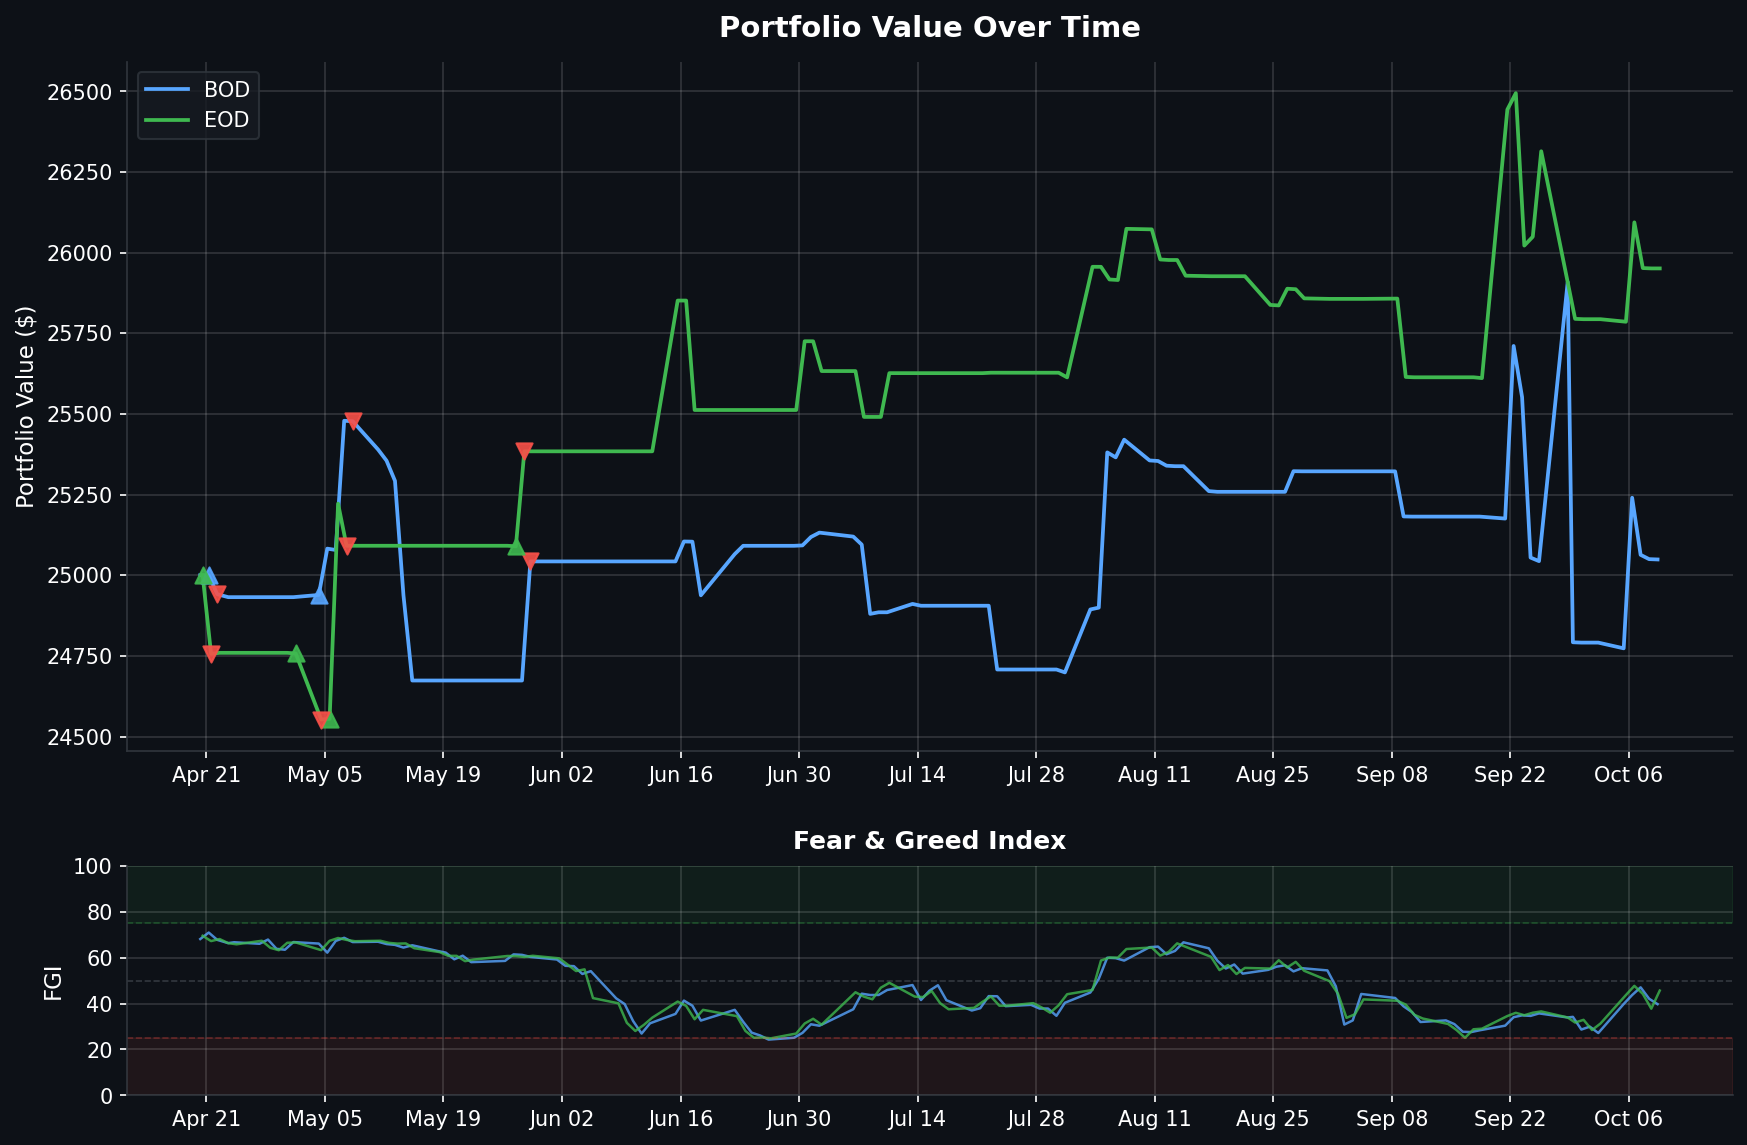
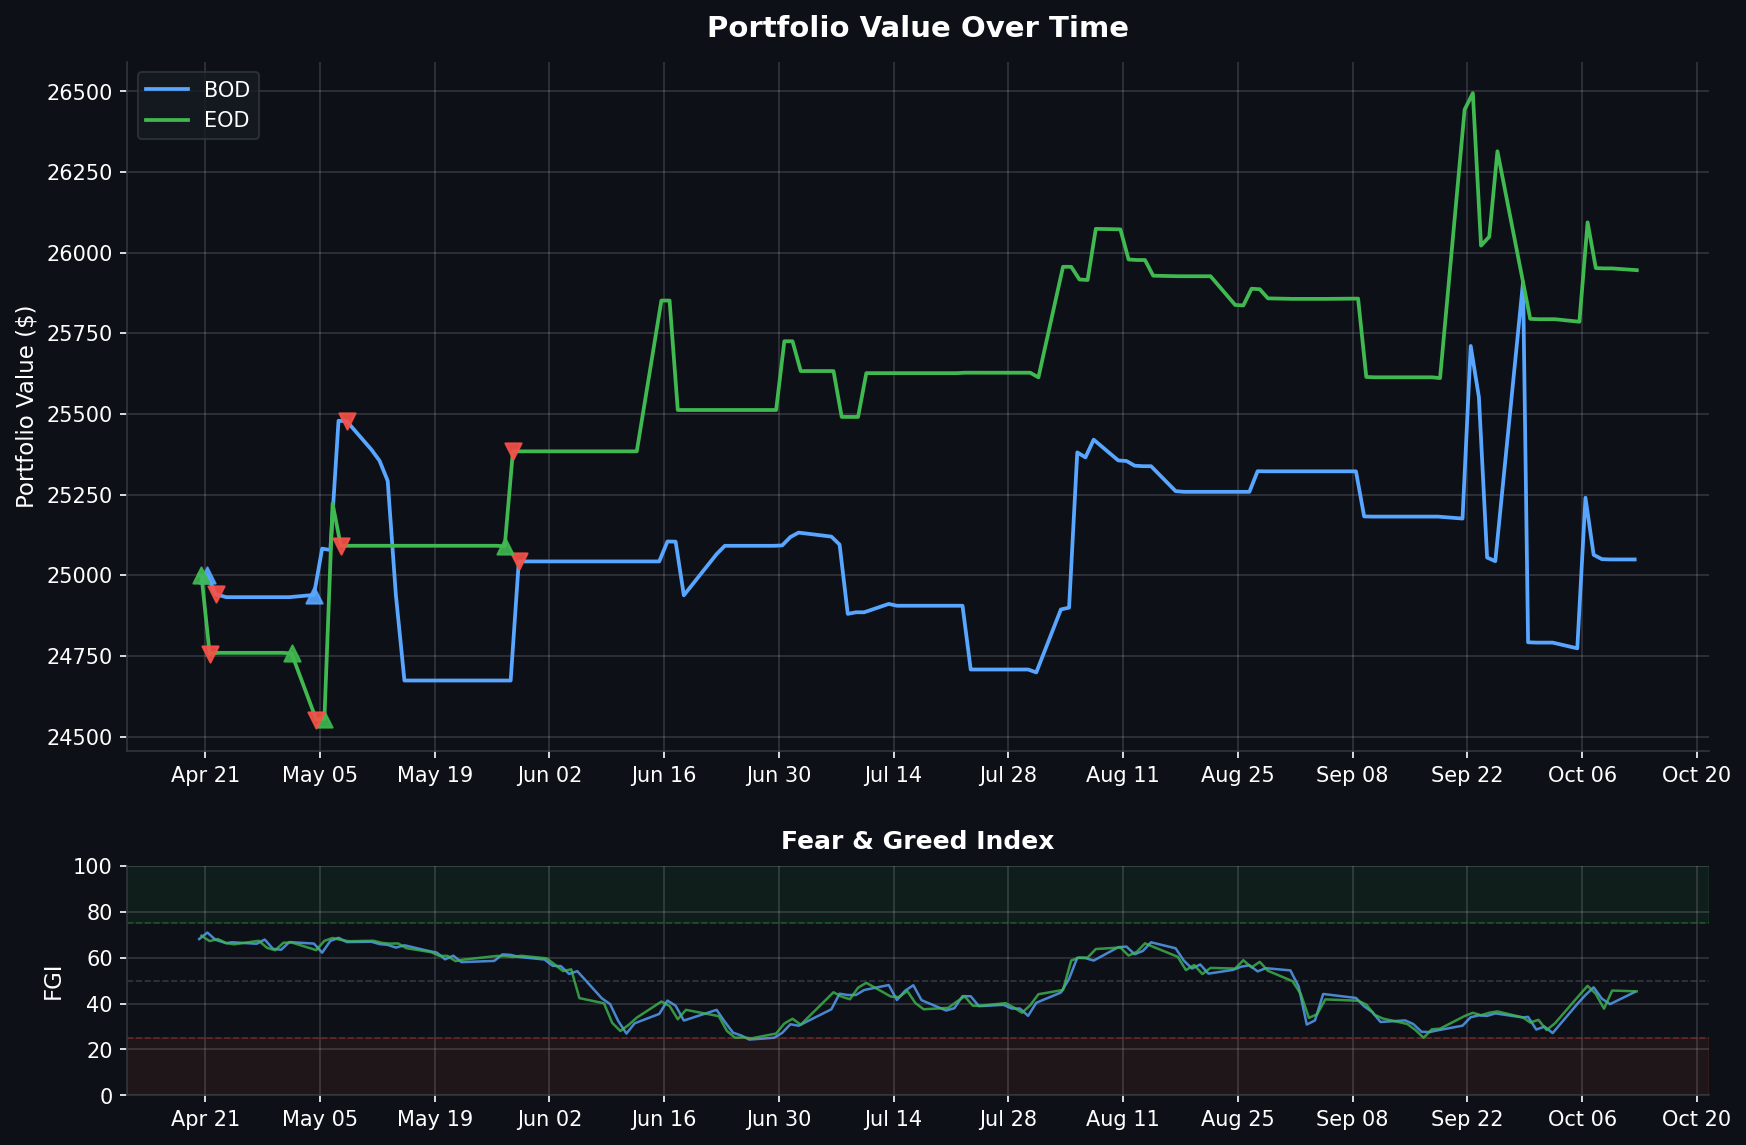
Daily data backup 2026-10-12

diff --git a/README.md b/README.md
@@ -1,6 +1,6 @@
 # Fear & Greed Index Trading Bot
 
-> Dashboard auto-updated daily at market close | Last update: **2026-10-09 13:30 PST**
+> Dashboard auto-updated daily at market close | Last update: **2026-10-12 13:30 PST**
 
 ![Portfolio Performance](assets/portfolio_chart.png)
 
@@ -12,12 +12,12 @@
 |--------|-------|
 | Portfolio Value | **$25,048.90** |
 | Buying Power | $100,195.60 |
-| Current FGI | 39.74 |
+| Current FGI | 45.0 |
 | Position | FLAT |
 | Total P&L | **$+995** |
 | Win Rate | 50% (1W / 1L) |
 | Total Round Trips | 2 |
-| Last Signal | NO_ACTION @ 2026-10-09 09:35 |
+| Last Signal | NO_ACTION @ 2026-10-12 09:35 |
 
 <details>
 <summary>Trade History (2 trades)</summary>
@@ -34,11 +34,11 @@
 
 | Time | Action | Price | FGI | Momentum | Velocity | Volatility | Reason |
 |------|--------|-------|-----|----------|----------|------------|--------|
+| 10-12 09:35 | NO_ACTION | $778.58 | 45.0 | 2.72 | -0.69 | 0.0982 | Insufficient momentum/velocity for entry |
 | 10-09 09:35 | NO_ACTION | $776.56 | 39.74 | -3.23 | -1.32 | 0.0989 | Insufficient momentum/velocity for entry |
 | 10-08 09:35 | NO_ACTION | $775.05 | 42.11 | -2.18 | 0.77 | 0.1011 | SELL incomplete - still holding 62 after 5 attempts |
 | 10-07 09:35 | NO_ACTION | $775.14 | 47.06 | 3.54 | 6.63 | 0.1046 | Holding position - indicators still favorable (2/8 days) |
 | 10-06 09:35 | NO_ACTION | $778.15 | 43.71 | 6.82 | 4.59 | 0.1041 | Holding position - indicators still favorable (1/8 days) |
-| 10-05 09:36 | NO_ACTION | $770.80 | 39.8 | 7.50 | 3.70 | 0.1028 | BUY did not fill after 3 attempts |
 
 </details>
 
@@ -48,14 +48,14 @@
 
 | Metric | Value |
 |--------|-------|
-| Portfolio Value | **$25,951.15** |
-| Buying Power | $103,804.60 |
-| Current FGI | 45.66 |
+| Portfolio Value | **$25,945.71** |
+| Buying Power | $42,161.28 |
+| Current FGI | 45.31 |
 | Position | FLAT |
 | Total P&L | **$+302** |
 | Win Rate | 50% (2W / 2L) |
 | Total Round Trips | 4 |
-| Last Signal | NO_ACTION @ 2026-10-09 15:50 |
+| Last Signal | NO_ACTION @ 2026-10-12 15:51 |
 
 <details>
 <summary>Trade History (4 trades)</summary>
@@ -74,11 +74,11 @@
 
 | Time | Action | Price | FGI | Momentum | Velocity | Volatility | Reason |
 |------|--------|-------|-----|----------|----------|------------|--------|
+| 10-12 15:51 | NO_ACTION | $777.98 | 45.31 | 2.40 | 0.37 | 0.0984 | BUY did not fill after 3 attempts |
 | 10-09 15:50 | NO_ACTION | $778.54 | 45.66 | 3.12 | -0.68 | 0.1003 | Insufficient momentum/velocity for entry |
 | 10-08 15:50 | NO_ACTION | $773.76 | 37.77 | -5.46 | -1.97 | 0.1023 | Insufficient momentum/velocity for entry |
 | 10-07 15:50 | NO_ACTION | $777.29 | 44.2 | -1.00 | 4.30 | 0.1035 | SELL incomplete - still holding 65 after 5 attempts |
 | 10-06 15:50 | NO_ACTION | $779.33 | 47.71 | 6.81 | 6.42 | 0.1051 | Holding position - indicators still favorable (1/8 days) |
-| 10-05 15:51 | NO_ACTION | $774.85 | 43.69 | 9.20 | 3.59 | 0.1055 | BUY did not fill after 3 attempts |
 
 </details>
 
